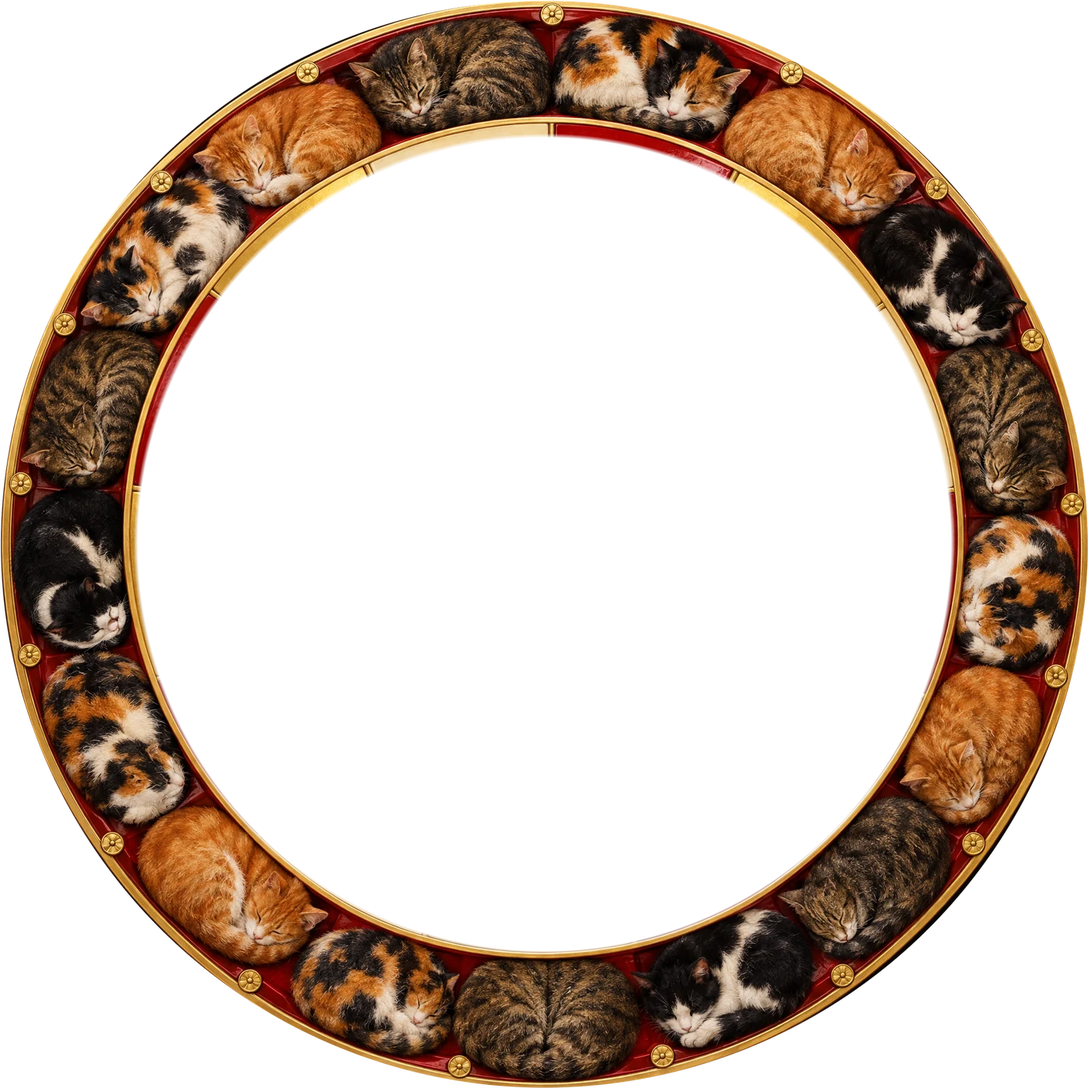
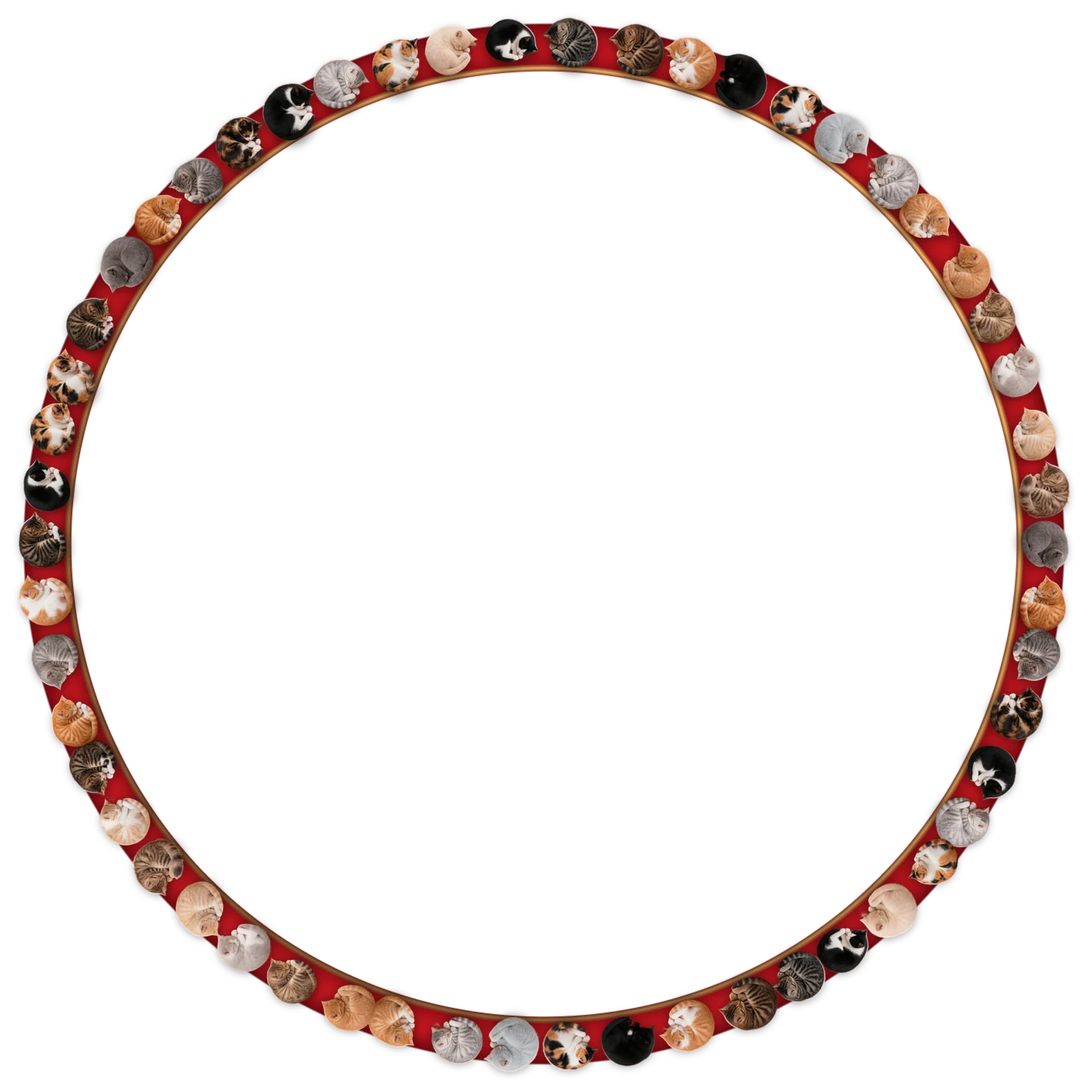
feat(taiwan): thin rim with 54 kittens, bigger and higher wheel
The cat ring is now composed from 32 generated kittens (tools/taiwan-cat-ring):
a thin lacquer rim from 0.895 R with no outer wall, so the kittens lie on it
instead of sitting in a cage, and names reach 0.865 R instead of 0.715 R.
The theme keeps a 30px gap above the rim and a 24px ticker, so on 1920x945 the
wheel is 833px instead of 783px and 42px higher.

diff --git a/src/domains/theme/themes/taiwan/taiwanTokens.ts b/src/domains/theme/themes/taiwan/taiwanTokens.ts
@@ -15,7 +15,7 @@ export const TW_SERIF = 'Georgia, "Times New Roman", "Noto Serif", serif';
 
 export const TW_ASSETS = {
   core: '/themes/taiwan/core.png',
-  /** Rim of sleeping cats cut out of the generated wheel, transparent inside and outside */
+  /** Thin lacquer rim with 54 sleeping kittens, composed from generated kitten sprites (see docs) */
   catRing: '/themes/taiwan/cat-ring.webp',
   /** Cat paw reaching down, the top fades out so it emerges from nothing */
   pointer: '/themes/taiwan/pointer.png',
@@ -27,14 +27,23 @@ export const TW_ASSETS = {
   plane: '/themes/taiwan/plane.webp',
 };
 
-/** The cat ring photo covers the wheel from here to the edge (cut at its inner gold line) */
-export const CAT_RING_INNER = 0.748;
+/** Room between the winner title and the rim, px: the paw sticks out only a little, so the wheel can be bigger */
+export const TW_TITLE_GAP = 30;
+/** How far the paw may stick out over the rim, px (inside `TW_TITLE_GAP`) */
+export const TW_PAW_PROTRUSION = 26;
+/** News ticker height, px; the theme reserves room for it under the wheel (see taiwan.css) */
+export const TW_TICKER_HEIGHT = 24;
+
+/** The cat ring starts here: its gold line on the sector side (there is no outer wall over the cats) */
+export const CAT_RING_INNER = 0.895;
+/** The ring picture spans this many wheel radii from the centre: the kittens peek over the edge a little */
+export const CAT_RING_EXTENT = 1.03;
 /** Names end here, clear of the ring */
-export const LABEL_OUTER = 0.715;
+export const LABEL_OUTER = 0.865;
 /** Names may start here at the earliest, just outside the hub (the hub is 0.2 R) */
 export const LABEL_INNER = 0.26;
 /** Thin inlay in the participant hue, just inside the ring */
-export const INLAY_INNER = 0.722;
+export const INLAY_INNER = 0.872;
 /** Gold ring around the hub */
 export const HUB_RING = 0.205;
 

diff --git a/src/domains/theme/themes/taiwan/TaiwanPointer.tsx b/src/domains/theme/themes/taiwan/TaiwanPointer.tsx
@@ -3,18 +3,18 @@ import { useEffect, useState } from 'react';
 import classes from '@domains/wheel/BaseWheel/BaseWheel.module.css';
 
 import TaiwanPointerDrawn from './TaiwanPointerDrawn';
-import { TW_ASSETS } from './taiwanTokens';
+import { TW_ASSETS, TW_PAW_PROTRUSION } from './taiwanTokens';
 
 import type { CSSProperties } from 'react';
 import type { PointerProps } from '@domains/wheel/BaseWheel/parts/types';
 
 /**
- * The paw sticks out over the rim no higher than the gap reserved for the title and reaches
- * `DIP` into the wheel, so the toe beans rest on the sleeping cats (the ring starts at 0.75 R).
+ * The theme keeps only a small gap under the title (`TW_TITLE_GAP`), so the paw sticks out over
+ * the rim by at most `TW_PAW_PROTRUSION` and reaches `DIP` into the wheel, across the thin cat
+ * ring (0.895 R), with the toe beans at the edge of the sectors.
  */
-const PROTRUSION_RATIO = 0.08;
-const PROTRUSION_MAX = 64;
-const DIP = 44;
+const PROTRUSION_RATIO = 0.03;
+const DIP = 46;
 
 type LoadState = 'loading' | 'ready' | 'missing';
 
@@ -53,7 +53,7 @@ const TaiwanPointer = ({ layout }: PointerProps) => {
     return <TaiwanPointerDrawn layout={layout} />;
   }
 
-  const protrusion = Math.min(PROTRUSION_MAX, Math.round(layout.targetWheelSize * PROTRUSION_RATIO));
+  const protrusion = Math.min(TW_PAW_PROTRUSION, Math.round(layout.targetWheelSize * PROTRUSION_RATIO));
   const dip = Math.round(layout.scale * DIP);
   const style: CSSProperties = {
     height: protrusion + dip,

diff --git a/src/domains/theme/themes/taiwan/catRing.ts b/src/domains/theme/themes/taiwan/catRing.ts
@@ -1,6 +1,15 @@
 import { createImageAsset } from '../beerParty/imageAsset';
 
-import { CAT_RING_INNER, TW_GOLD, TW_GOLD_DARK, TW_GOLD_LIGHT, TW_RED, TW_RED_DEEP, TW_ASSETS } from './taiwanTokens';
+import {
+  CAT_RING_EXTENT,
+  CAT_RING_INNER,
+  TW_ASSETS,
+  TW_GOLD,
+  TW_GOLD_DARK,
+  TW_GOLD_LIGHT,
+  TW_RED,
+  TW_RED_DEEP,
+} from './taiwanTokens';
 
 import type { WheelPartLayout } from '@domains/wheel/BaseWheel/parts/types';
 
@@ -44,8 +53,8 @@ const drawFallbackRim = (ctx: CanvasRenderingContext2D, layout: WheelPartLayout)
 
 /**
  * Draws the rim of sleeping cats over the sectors, into the cached wheel canvas, so the cats spin
- * with the wheel. The photo is a cut-out annulus whose outer edge is the wheel edge, so it is
- * stretched exactly over the wheel.
+ * with the wheel. The picture is centred on the wheel and spans `CAT_RING_EXTENT` radii, so the
+ * kittens that peek over the edge are not cut off.
  */
 export const drawCatRing = (
   ctx: CanvasRenderingContext2D,
@@ -58,9 +67,9 @@ export const drawCatRing = (
     return;
   }
 
-  const { center, wheelRadius } = layout;
+  const radius = layout.wheelRadius * CAT_RING_EXTENT;
   ctx.save();
   ctx.imageSmoothingQuality = 'high';
-  ctx.drawImage(image, center - wheelRadius, center - wheelRadius, wheelRadius * 2, wheelRadius * 2);
+  ctx.drawImage(image, layout.center - radius, layout.center - radius, radius * 2, radius * 2);
   ctx.restore();
 };

diff --git a/src/domains/theme/themes/taiwan/NewsTicker.tsx b/src/domains/theme/themes/taiwan/NewsTicker.tsx
@@ -1,16 +1,16 @@
 import { useTranslation } from 'react-i18next';
 
-import { TW_CREAM, TW_GOLD, TW_JADE, TW_SERIF } from './taiwanTokens';
+import { TW_CREAM, TW_GOLD, TW_JADE, TW_SERIF, TW_TICKER_HEIGHT } from './taiwanTokens';
 
 import type { CSSProperties } from 'react';
 
-const TICKER_HEIGHT = 30;
+const TICKER_HEIGHT = TW_TICKER_HEIGHT;
 /** Pairs per half of the track; the track is two identical halves so the crawl loops seamlessly */
 const PAIRS_PER_HALF = 5;
 
 const labelStyle: CSSProperties = {
   fontFamily: TW_SERIF,
-  fontSize: 15,
+  fontSize: 13,
   fontWeight: 700,
   letterSpacing: '0.12em',
   textTransform: 'uppercase',
@@ -30,7 +30,7 @@ const NewsTicker = () => {
       <span style={labelStyle}>{t('themes.taiwan.tickerPelosi')}</span>
       <span
         style={{
-          fontSize: 58,
+          fontSize: 50,
           lineHeight: `${TICKER_HEIGHT}px`,
           color: TW_JADE,
           textShadow: '0 0 14px rgba(53, 208, 127, 0.85), 0 0 3px rgba(0, 0, 0, 0.6)',

diff --git a/src/domains/theme/themes/taiwan/taiwan.css b/src/domains/theme/themes/taiwan/taiwan.css
@@ -62,11 +62,11 @@
 
 /*
  * Room for the news ticker. The page leaves 16px under the wheel (padding of the main area in
- * App.module.css) and the ticker is 30px tall (NewsTicker.tsx), so the rim sank 14px into it and
- * looked cut off. Shortening the wheel area by 22px makes the autosizer shrink the wheel so it
- * ends 8px above the ticker. ThemeRoot sets data-wheel-style on <html>; the CSS-module class is
- * `_wheelArea_<hash>_<line>`, and nothing else in the app contains "wheelArea_".
+ * App.module.css) and the ticker is 24px tall (TW_TICKER_HEIGHT), so without this the rim sinks
+ * into it and looks cut off. Shortening the wheel area by 14px makes the autosizer shrink the
+ * wheel so it ends 6px above the ticker. ThemeRoot sets data-wheel-style on <html>; the
+ * CSS-module class is `_wheelArea_<hash>_<line>`, and nothing else contains "wheelArea_".
  */
 html[data-wheel-style='taiwan'] [class*='wheelArea_'] {
-  height: calc(100% - 22px);
+  height: calc(100% - 14px);
 }

diff --git a/src/domains/theme/themes/taiwan/theme.ts b/src/domains/theme/themes/taiwan/theme.ts
@@ -5,7 +5,7 @@ import TaiwanBackground from './TaiwanBackground';
 import TaiwanEffects from './TaiwanEffects';
 import TaiwanPointer from './TaiwanPointer';
 import TaiwanWheel from './TaiwanWheel';
-import { TW_ASSETS, TW_CREAM, TW_RED, TW_SERIF } from './taiwanTokens';
+import { TW_ASSETS, TW_CREAM, TW_RED, TW_SERIF, TW_TITLE_GAP } from './taiwanTokens';
 
 import './taiwan.css';
 
@@ -21,6 +21,7 @@ const theme: ThemeDefinition = {
     pointer: TaiwanPointer,
     effects: TaiwanEffects,
     coreImage: TW_ASSETS.core,
+    titleGap: TW_TITLE_GAP,
   },
   background: TaiwanBackground,
   ui: {

diff --git a/src/domains/theme/themes/taiwan/TaiwanCharacters.tsx b/src/domains/theme/themes/taiwan/TaiwanCharacters.tsx
@@ -11,8 +11,8 @@ const PELOSI_FACE_IN_GAP = 0.5;
 const BUFFETT_HEIGHT = 0.4;
 const BUFFETT_MIN_HEIGHT = 170;
 const BUFFETT_GAP_FILL = 1.05;
-/** Ticker height he stands on */
-const TICKER_CLEARANCE = 18;
+/** He stands just above the ticker */
+const TICKER_CLEARANCE = 14;
 
 const imageStyle: CSSProperties = {
   position: 'absolute',

diff --git a/tools/taiwan-cat-ring/compose.py b/tools/taiwan-cat-ring/compose.py
@@ -1,0 +1,99 @@
+"""
+Composes the Taiwan theme's cat ring: a thin red lacquer rim with a gold line on the sector
+side (no outer wall, so the kittens do not look caged) and many sleeping kittens lying on it.
+
+    python tools/taiwan-cat-ring/compose.py
+
+Needs Python 3 with Pillow and numpy. Reads the kitten sprites from `kittens/` next to this
+file and writes `public/themes/taiwan/cat-ring.webp`. The picture is centred on the wheel and
+spans EXTENT wheel radii, so kittens may peek over the edge. If INNER or EXTENT change, update
+CAT_RING_INNER / CAT_RING_EXTENT (and LABEL_OUTER, INLAY_INNER) in taiwanTokens.ts.
+"""
+
+import math
+import random
+from pathlib import Path
+
+import numpy as np
+from PIL import Image, ImageFilter
+
+HERE = Path(__file__).resolve().parent
+OUT = HERE.parent.parent / 'public' / 'themes' / 'taiwan' / 'cat-ring.webp'
+
+SIZE = 1400  # output side, px
+EXTENT = 1.03  # the picture spans this many wheel radii from the centre
+INNER = 0.895  # rim (and its gold line) starts here, fraction of the wheel radius
+BAND_OUT = 0.985  # the lacquer band fades out here; nothing is drawn over the kittens
+COUNT = 54  # kittens around the rim
+KITTEN = 0.11  # kitten size, fraction of the wheel radius
+KITTEN_RADIUS = 0.952  # where the kitten centres lie
+SEED = 11
+
+R = SIZE / 2 / EXTENT
+C = SIZE / 2
+
+
+def rim() -> Image.Image:
+    yy, xx = np.mgrid[0:SIZE, 0:SIZE]
+    r = np.hypot(xx + 0.5 - C, yy + 0.5 - C) / R
+    out = np.zeros((SIZE, SIZE, 4), float)
+
+    # red lacquer, darker at both edges, soft fall-off on the outside instead of a gold wall
+    glow = np.sin(np.clip((r - INNER) / (BAND_OUT - INNER), 0, 1) * math.pi)
+    out[..., :3] = np.stack([110 + 80 * glow, 8 + 14 * glow, 16 + 14 * glow], -1)
+    out[..., 3] = np.clip((r - INNER) * R / 1.2 + 0.5, 0, 1) * np.clip((BAND_OUT - r) * R / 2.5 + 0.5, 0, 1) * 255
+
+    # gold line on the sector side only, lit from the top-left
+    line = np.clip(1 - np.abs(r - (INNER + 0.006)) * R / 5.5, 0, 1)
+    shade = 0.75 + 0.25 * np.cos(np.arctan2(yy - C, xx - C) + math.pi / 4)
+    gold = np.stack([236 * shade, 196 * shade, 104 * shade], -1)
+    out[..., :3] = out[..., :3] * (1 - line[..., None]) + gold * line[..., None]
+    out[..., 3] = np.maximum(out[..., 3], line * 255)
+
+    return Image.fromarray(out.clip(0, 255).astype(np.uint8), 'RGBA')
+
+
+def main() -> None:
+    kittens = [Image.open(path).convert('RGBA') for path in sorted((HERE / 'kittens').glob('*.webp'))]
+    rng = random.Random(SEED)
+    order = list(range(len(kittens)))
+    rng.shuffle(order)
+
+    ring = rim()
+    layer = Image.new('RGBA', (SIZE, SIZE), (0, 0, 0, 0))
+    shadow = Image.new('RGBA', (SIZE, SIZE), (0, 0, 0, 0))
+    size = KITTEN * R
+
+    for index in range(COUNT):
+        angle = 2 * math.pi * index / COUNT + rng.uniform(-0.01, 0.01)
+        kitten = kittens[order[index % len(order)]]
+        if rng.random() < 0.5:
+            kitten = kitten.transpose(Image.FLIP_LEFT_RIGHT)
+        scale = size / max(kitten.size) * rng.uniform(0.95, 1.05)
+        kitten = kitten.resize((max(1, int(kitten.width * scale)), max(1, int(kitten.height * scale))), Image.LANCZOS)
+        # back to the outside, give or take, so the row does not look stamped
+        kitten = kitten.rotate(-math.degrees(angle) - 90 + rng.uniform(-30, 30), resample=Image.BICUBIC, expand=True)
+
+        x = C + math.cos(angle) * KITTEN_RADIUS * R
+        y = C + math.sin(angle) * KITTEN_RADIUS * R
+        position = (int(round(x - kitten.width / 2)), int(round(y - kitten.height / 2)))
+
+        # soft shadow towards the centre and a little down
+        drop = Image.new('RGBA', kitten.size, (20, 4, 4, 0))
+        drop.putalpha(kitten.getchannel('A').point(lambda value: int(value * 0.5)))
+        offset = (int(-math.cos(angle) * 0.006 * R), int(-math.sin(angle) * 0.006 * R + 0.004 * R))
+        shadow.alpha_composite(drop, (position[0] + offset[0], position[1] + offset[1]))
+        layer.alpha_composite(kitten, position)
+
+    ring.alpha_composite(shadow.filter(ImageFilter.GaussianBlur(R * 0.008)))
+    ring.alpha_composite(layer)
+    ring.save(OUT, quality=88, method=6)
+
+    alpha = np.asarray(ring.getchannel('A'))
+    ys, xs = np.nonzero(alpha > 20)
+    reach = np.hypot(xs - C, ys - C).max() / R
+    print(f'{OUT.name}: {COUNT} kittens, rim from {INNER} R, outermost pixel at {reach:.3f} R')
+
+
+if __name__ == '__main__':
+    main()

diff --git a/docs/theme-authoring.md b/docs/theme-authoring.md
@@ -187,16 +187,17 @@ JPEG, персонажи справа, левая половина тёмная,
   шапки над панелью) закрывает зеркальная копия с нахлёстом 1 px — без нахлёста виден шов. Следующее фото
   переключается, только когда декодировано, а уходящее остаётся первым потомком со своим `key`, чтобы React не
   переставлял его узел: перестановка перезапустила бы его наезд.
-- `cat-ring.webp` 1400×1400 — кольцо спящих котиков, вырезанное из сгенерированного концепта колеса. Приём общий
-  для концептов колеса из генератора: из картинки берётся **только обод**, секторы рисует код (иначе колесо не
-  работает с любым числом участников и ломается серый режим подсветки). Колесо в кадре стоит не по центру:
-  окружность подогнана по точкам края, центр (1010.2, 986.9), радиус 966 из 2048. Кольцо срезано по внутреннему
-  золотому ободку на 0.748 R с растушёвкой 0.008 R и рисуется последним шагом `afterDraw` в кеш холста колеса
-  (`catRing.ts`), поэтому крутится вместе с секторами. Картинка приходит через `useImageAsset` в `TaiwanWheel`:
-  перерендер меняет объект рендерера, и кеш пересобирается уже с котиками. Сначала кольцо было неподвижным слоем
-  эффектов («котики спят, колесо крутится под ними»), но команда ждала, что котики поедут вместе с ободом. Имена
-  заканчиваются на 0.715 R (`LABEL_OUTER`), под кольцом тонкая полоска в цвете участника. Концепт с котиками крупнее (кольцо с 0.68 R) отвергнут: длинные имена
-  уменьшались примерно на треть.
+- `cat-ring.webp` 1400×1400 — тонкий красный лаковый обод с золотой линией со стороны секторов и 54 спящих
+  котёнка на нём, собран скриптом `tools/taiwan-cat-ring/` из 32 сгенерированных котят (там же README и параметры).
+  Обод начинается на 0.895 R (`CAT_RING_INNER`), картинка покрывает 1.03 R (`CAT_RING_EXTENT`), котята
+  выглядывают за край до ~1.01 R. Внешнего бортика нет: в целиком сгенерированных концептах котики лежали в жёлобе
+  между двумя золотыми стенками и выглядели придавленными, «в клетке». Сами концепты (W1b и тоньше) не пошли ещё и
+  потому, что генератор не держит ширину кольца: просили 10 % радиуса, получали 18–25 %, а обод съедал место под
+  имена. Приём общий для концептов колеса из генератора: из картинки берётся только идея обода, секторы рисует
+  код (иначе колесо не работает с любым числом участников и ломается серый режим подсветки). Кольцо рисуется
+  последним шагом `afterDraw` в кеш холста колеса (`catRing.ts`) и крутится вместе с секторами; картинка приходит
+  через `useImageAsset` в `TaiwanWheel`, перерендер меняет объект рендерера, и кеш пересобирается уже с котятами.
+  Имена заканчиваются на 0.865 R (`LABEL_OUTER`), под ободом тонкая полоска в цвете участника.
 - `core.png` 512 px — кот в круглом окне, кадр обрезан по кругу окна. `pointer.png` 169×360 — рыжая лапа
   подушечками вниз, верхние 32 % растворяются в прозрачность, чтобы лапа «появлялась» над ободом.
 - `pelosi.webp` 1022×1400 (отражена, смотрит на колесо), `buffett.webp` 712×900 (смотрит вверх-влево),
@@ -207,10 +208,11 @@ JPEG, персонажи справа, левая половина тёмная,
   ставит измеренная рамка `useWheelFrame` (квадрат колеса и левый край панели, пять раз в секунду).
 - Самолёт пролетает раз в 45–75 с (Web Animations API), в середине пути под ним на ~3 с проявляется подпись с
   датой посадки. Внизу бегущая строка «Пелоси ▲ · Баффет ▲»: обе стрелки зелёные, у неё огромная, у него
-  крошечная. Строка лежит в фоне, под колесом, и высотой 30 px, а страница оставляет под колесом только 16 px:
-  обод налезал на строку и выглядел срезанным. Поэтому `taiwan.css` укорачивает область колеса
-  (`html[data-wheel-style='taiwan'] [class*='wheelArea_']`, минус 22 px), колесо само становится меньше и
-  заканчивается в 8 px над строкой. Тексты темы — в локалях под `themes.taiwan.*`. При «уменьшить движение»
+  крошечная. Строка лежит в фоне, под колесом, и высотой 24 px (`TW_TICKER_HEIGHT`), а страница оставляет под
+  колесом только 16 px: обод налезал на строку и выглядел срезанным. Поэтому `taiwan.css` укорачивает область
+  колеса (`html[data-wheel-style='taiwan'] [class*='wheelArea_']`, минус 14 px), и колесо заканчивается над
+  строкой. Зато над колесом тема оставляет не 72 px, а 30 (`parts.titleGap`, лапа выступает над ободом не больше
+  чем на 26 px), поэтому колесо в итоге и выше, и крупнее: на 1920×945 без панели 833 px вместо 783. Тексты темы — в локалях под `themes.taiwan.*`. При «уменьшить движение»
   нет наезда и пролётов, бегущая строка стоит, смена фото остаётся.
 
 ## Веб-шрифты

diff --git a/tools/taiwan-cat-ring/README.md b/tools/taiwan-cat-ring/README.md
@@ -1,0 +1,25 @@
+# Taiwan cat ring — сборка обода с котятами
+
+`compose.py` собирает `public/themes/taiwan/cat-ring.webp`: тонкий красный лаковый обод с золотой линией со
+стороны секторов и 54 спящих котёнка на нём. Внешнего бортика нет специально: в сгенерированных целиком
+концептах котики лежали в жёлобе между двумя золотыми стенками и выглядели придавленными, «в клетке».
+Генератор не держит заданную ширину кольца (просили 10 % радиуса — получали 18–20 %), поэтому кольцо собирается
+из отдельных котят, а ширина и число задаются точно.
+
+`kittens/` — 32 котёнка клубочком, вид сверху, прозрачный фон, до 256 px. Вырезаны из двух листов 4×4,
+сгенерированных в Higgsfield (Seedream 5.0 Pro, `--remove_bg true`), по связным областям альфы; край альфы
+подрезан на 1 px, чтобы не было светлого ореола от вырезки фона.
+
+## Как пересобрать
+
+```
+python tools/taiwan-cat-ring/compose.py
+```
+
+Нужны Python 3, Pillow и numpy. Параметры — константы в начале скрипта: где начинается обод (`INNER`), сколько
+котят (`COUNT`), их размер (`KITTEN`) и радиус (`KITTEN_RADIUS`), зерно раскладки (`SEED`). Картинка покрывает
+`EXTENT` = 1.03 радиуса, чтобы котята могли чуть выглядывать за край колеса; скрипт печатает, докуда дотянулся
+самый дальний пиксель. Держите его в пределах ~1.01 R: под колесом до бегущей строки остаётся всего ~6 px.
+
+Если меняются `INNER` или `EXTENT`, поправьте `CAT_RING_INNER` и `CAT_RING_EXTENT` в `taiwanTokens.ts`, а вслед
+за ними `LABEL_OUTER` (конец имён, чуть внутри обода) и `INLAY_INNER` (полоска цвета участника под ободом).

diff --git a/docs/history.md b/docs/history.md
@@ -205,5 +205,12 @@
   показа: колесо «не влезало» — геометрически оно помещалось (скан: 17 px до края на пяти размерах окна), но низ обода
   на 14 px заходил на бегущую строку и выглядел срезанным; тема теперь укорачивает область колеса на 22 px. Котики
   на ободе стояли на месте, как было предложено по умолчанию, команда ждала обратного — кольцо переехало в кеш колеса
-  и крутится с ним. Стрелка Баффета в строке тоже зелёная, только маленькая.
+  и крутится с ним. Стрелка Баффета в строке тоже зелёная, только маленькая. Затем команда попросила тоньше обод
+  (фамилии читались плохо), колесо выше и крупнее, и чтобы котиков ничто не придавливало сверху. Ни один
+  сгенерированный концепт не дал нужной ширины (тонкие варианты начинались с 0.80–0.82 R вместо 0.9), поэтому кольцо
+  теперь собирается скриптом `tools/taiwan-cat-ring/` из 32 отдельных котят: обод с 0.895 R, 54 котёнка, без
+  внешнего бортика. Зазор над ободом стал настраиваемым из темы (`parts.titleGap`), у «Тайваня» 30 px вместо 72, а
+  бегущая строка стала ниже (24 px): на 1920×945 колесо поднялось на 42 px и выросло с 783 до 833 px, имена
+  тянутся до 0.865 R вместо 0.715 R. Жалоба «колесо не влезает» со скриншотом оказалась про окно браузера
+  Playwright, в котором шла проверка: ему была задана область 1920×1080, а окно на экране показывало только 945 px.
 - **Лицензия.** Исходник под PolyForm Noncommercial 1.0.0, файл `LICENSE` сохранён.
